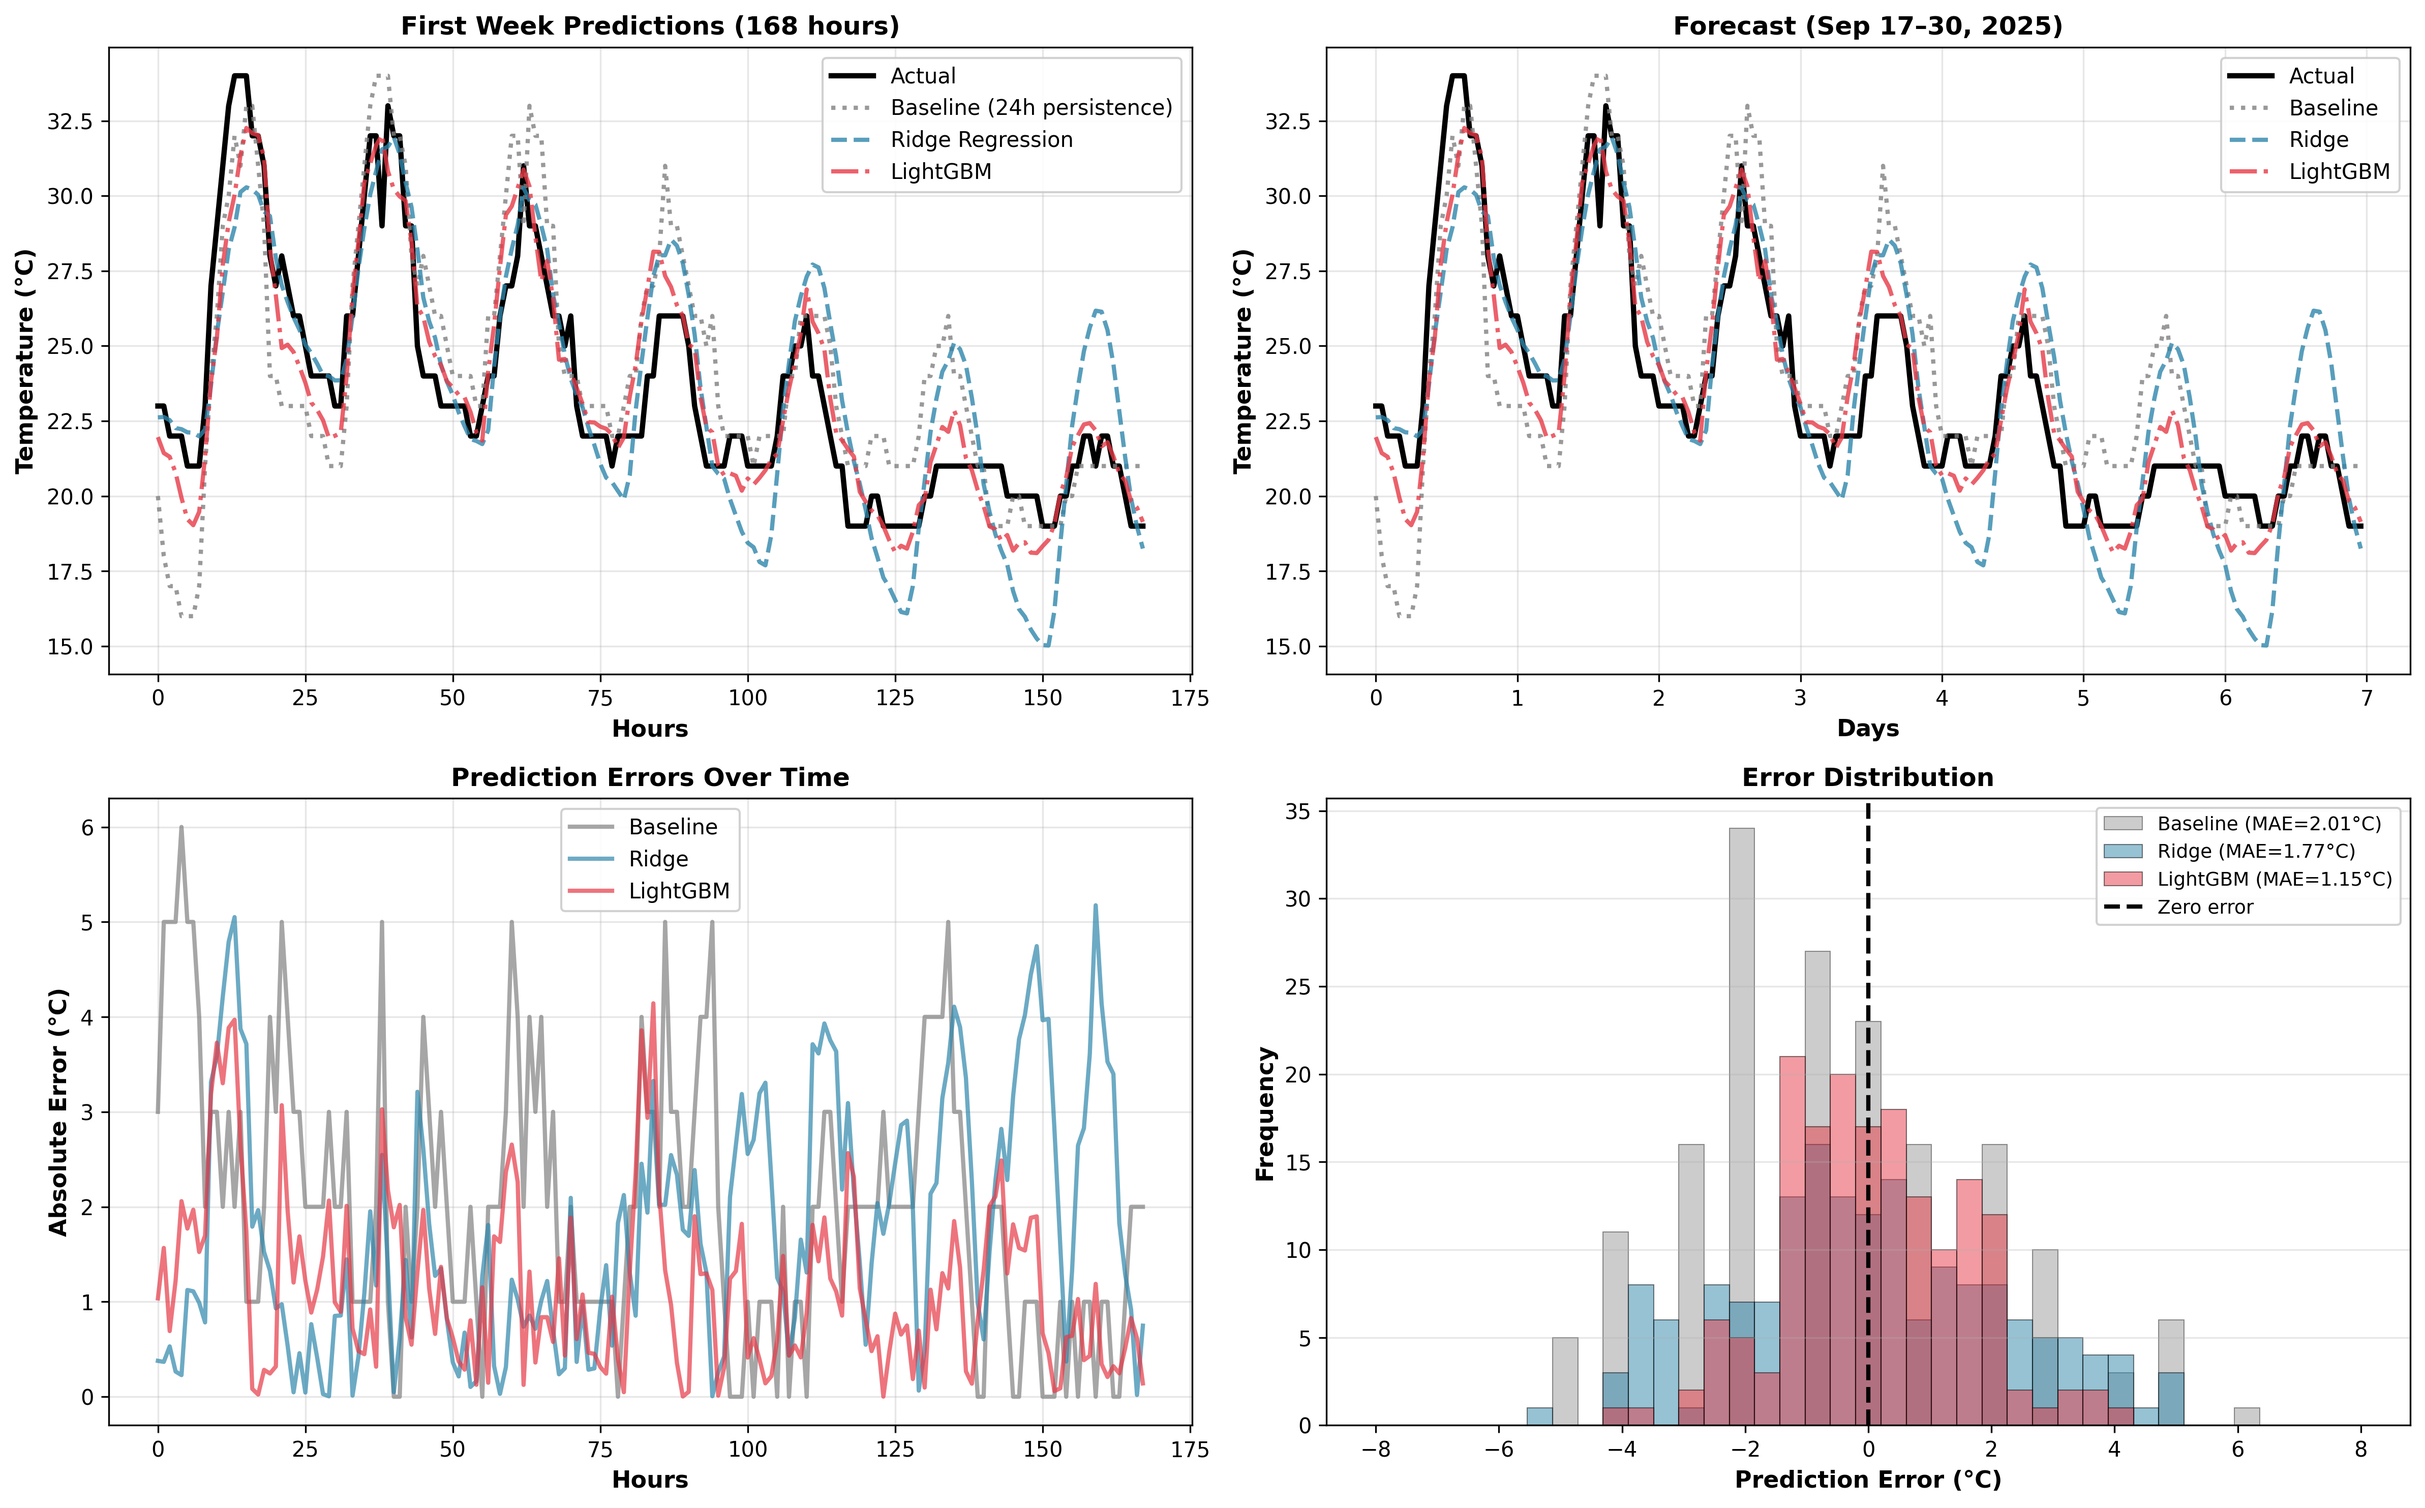
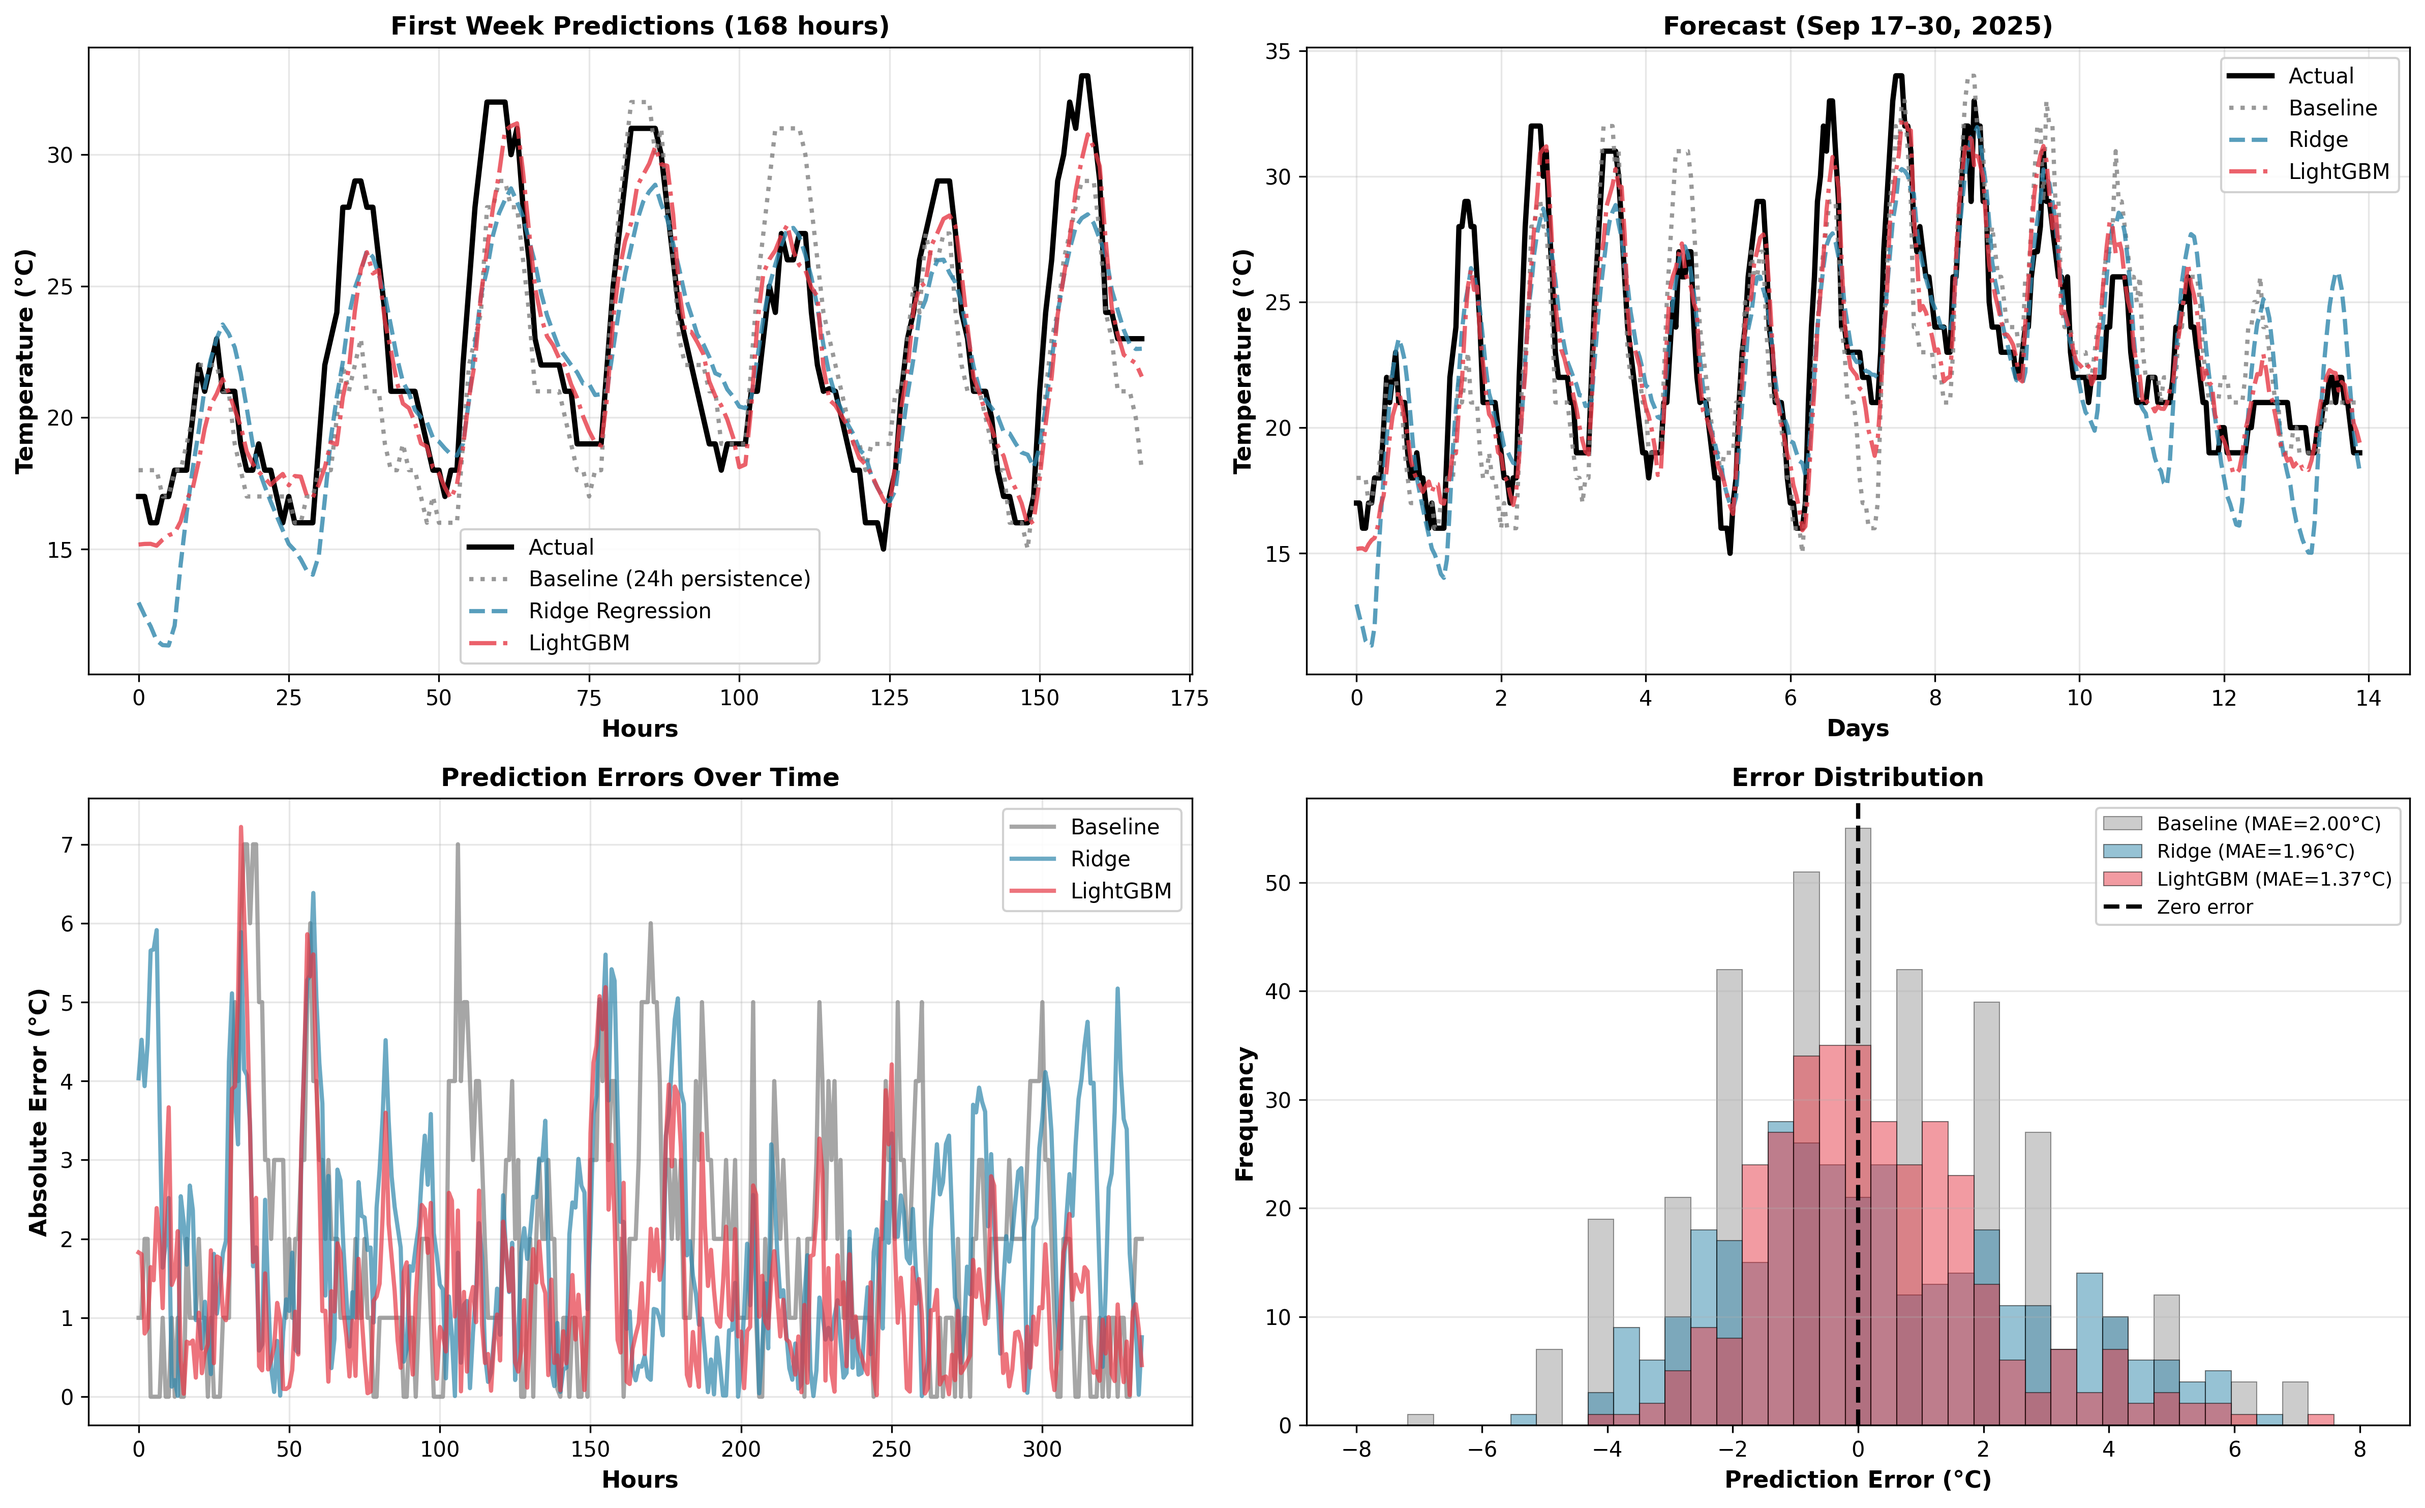
Fix lag features and add metrics-history.md

diff --git a/main.py b/main.py
@@ -43,7 +43,6 @@ CONFIG = {
     'timezone': 'America/New_York',
 }
 
-
 def _range_label(start_str, end_str):
     """Compact human label like "Sep 01–16, 2025" or cross-month/year if needed."""
     s = datetime.fromisoformat(start_str)
@@ -53,7 +52,6 @@ def _range_label(start_str, end_str):
     if s.year == e.year:
         return f"{s.strftime('%b %d')}–{e.strftime('%b %d, %Y')}"
     return f"{s.strftime('%b %d, %Y')}–{e.strftime('%b %d, %Y')}"
-
 
 def download_data():
     """Download complete weather data including test period"""
@@ -79,22 +77,37 @@ def convert_to_datetime(df):
     df.index = dt_index.tz_convert(CONFIG['timezone'])
     return df
 
-def create_features(df):
+def create_features(df, previous_data=None):
     """
-    Create features:
-    - Temperature lag features (backward-looking only)
-    - Rolling statistics (shifted by 1 to prevent using current value)
-    - One-hot encode hour of day (24 features)
-    - One-hot encode day of week (7 features)
+    Create features with support for cross-boundary lag features
+    
+    Args:
+        df: Current dataframe to create features for
+        previous_data: Previous data (train/val) to use for initial lag values
     """
     df = df.copy()
     
-    # Temperature lag features
-    df['temp_lag_24h'] = df['temp'].shift(24)    # Yesterday same hour
-    df['temp_lag_48h'] = df['temp'].shift(48)    # 2 days ago
-    df['temp_lag_168h'] = df['temp'].shift(168)  # 1 week ago
+    # If we have previous data, combine it to calculate lags across boundary
+    if previous_data is not None:
+        # Combine previous data with current data for lag calculations
+        combined = pd.concat([previous_data, df])
+        combined = combined.sort_index()
+        
+        # Calculate lags on combined data
+        combined['temp_lag_24h'] = combined['temp'].shift(24)
+        combined['temp_lag_48h'] = combined['temp'].shift(48)
+        combined['temp_lag_168h'] = combined['temp'].shift(168)
+        
+        # Extract just the current portion
+        current_mask = combined.index >= df.index.min()
+        df = combined[current_mask].copy()
+    else:
+        # For training data, calculate normally
+        df['temp_lag_24h'] = df['temp'].shift(24)
+        df['temp_lag_48h'] = df['temp'].shift(48)
+        df['temp_lag_168h'] = df['temp'].shift(168)
     
-    # Rolling statistics
+    # Rolling statistics (shifted by 1 to prevent using current value)
     df['temp_mean_24h'] = df['temp'].shift(1).rolling(24, min_periods=1).mean()
     df['temp_mean_168h'] = df['temp'].shift(1).rolling(168, min_periods=1).mean()
     df['temp_std_24h'] = df['temp'].shift(1).rolling(24, min_periods=1).std()
@@ -109,7 +122,6 @@ def create_features(df):
     
     return df
 
-
 def prepare_splits(all_data):
     """
     Split data into train, val, and test sets.
@@ -121,18 +133,13 @@ def prepare_splits(all_data):
     test_df = all_data[(all_data.index >= CONFIG['test_start']) &
                        (all_data.index <= CONFIG['test_end'])].copy()
     
-    # Create features for each split
-    print("  Creating features for training set...")
-    train_df = create_features(train_df)
-    
-    print("  Creating features for validation set...")
-    val_df = create_features(val_df)
-    
-    print("  Creating features for test set...")
-    test_df = create_features(test_df)
+    # Then create features for each split
+    print("  Creating features for each split...")
+    train_df = create_features(train_df)  # No previous data for training
+    val_df = create_features(val_df, previous_data=train_df)
+    test_df = create_features(test_df, previous_data=pd.concat([train_df, val_df]))
     
     return train_df, val_df, test_df
-
 
 def train_ridge(X_train, y_train, X_val, y_val):
     """Train Ridge with hyperparameter tuning"""
@@ -165,7 +172,6 @@ def train_ridge(X_train, y_train, X_val, y_val):
     
     return ridge_model
 
-
 def train_lightgbm(X_train, y_train, X_val, y_val):
     """Train LightGBM"""
     print("\nLightGBM:")
@@ -194,7 +200,6 @@ def train_lightgbm(X_train, y_train, X_val, y_val):
     print(f"  Validation MAE: {val_mae:.3f}°C")
     
     return lgb_model
-
 
 def create_visualizations(test_clean, ridge_preds, lgb_preds, baseline_preds):
     """Create comprehensive visualizations"""
@@ -273,7 +278,6 @@ def create_visualizations(test_clean, ridge_preds, lgb_preds, baseline_preds):
     print("  Saved: test_results.png")
     plt.close()
 
-
 def write_test_results_md(
     baseline_mae,
     baseline_rmse,
@@ -288,12 +292,13 @@ def write_test_results_md(
 ):
     """Write a concise markdown summary of test results."""
     lines = [
-        f"# Test Results ({_range_label(CONFIG['test_start'], CONFIG['test_end'])})",
+        f"# Test Results",
         "",
-        f"- Baseline — MAE: {baseline_mae:.2f}°C, RMSE: {baseline_rmse:.2f}°C, R²: {baseline_r2:.3f}",
-        f"- Ridge — MAE: {ridge_mae:.2f}°C, RMSE: {ridge_rmse:.2f}°C, R²: {ridge_r2:.3f}",
-        f"- LightGBM — MAE: {lgb_mae:.2f}°C, RMSE: {lgb_rmse:.2f}°C, R²: {lgb_r2:.3f}",
-        f"- Best model: {best_model}",
+        f"- **Period**: {_range_label(CONFIG['test_start'], CONFIG['test_end'])}",
+        f"- **Baseline** — MAE: {baseline_mae:.2f}°C, RMSE: {baseline_rmse:.2f}°C, R²: {baseline_r2:.3f}",
+        f"- **Ridge** — MAE: {ridge_mae:.2f}°C, RMSE: {ridge_rmse:.2f}°C, R²: {ridge_r2:.3f}",
+        f"- **LightGBM** — MAE: {lgb_mae:.2f}°C, RMSE: {lgb_rmse:.2f}°C, R²: {lgb_r2:.3f}",
+        f"- **Best model**: {best_model}",
         "",
         "![Predictions and Errors](test_results.png)",
     ]
@@ -302,14 +307,13 @@ def write_test_results_md(
 
 
 def main():
-    print("="*70)
+    print("=" * 70)
     print("RDU AIRPORT TEMPERATURE PREDICTION")
-    print("="*70)
+    print("=" * 70)
     
     print("\n1. Data Loading")
     print("-" * 70)
     all_data = download_data()
-    # all_data = prepare_data(all_data)
     all_data = convert_to_datetime(all_data)
     print(f"Full data range: {all_data.index.min()} to {all_data.index.max()}")
     print(f"Total samples: {len(all_data)}")
@@ -325,8 +329,7 @@ def main():
     continuous_features = ['temp_lag_24h', 'temp_lag_48h', 'temp_lag_168h',
                           'temp_mean_24h', 'temp_mean_168h', 'temp_std_24h']
     
-    categorical_features = ([f'hour_{h}' for h in range(24)] + 
-                           [f'dow_{d}' for d in range(7)])
+    categorical_features = [f'hour_{h}' for h in range(24)] + [f'dow_{d}' for d in range(7)]
     
     all_features = continuous_features + categorical_features
     
@@ -427,7 +430,7 @@ def main():
     print(f"  Generated {len(ridge_preds)} predictions for each model")
     
     print("\n8. Test Set Evaluation")
-    print("="*70)
+    print("=" * 70)
     
     # Baseline metrics
     baseline_mae = mean_absolute_error(y_test, baseline_preds)
@@ -500,7 +503,6 @@ def main():
     print("  Saved: test_results.md")
     
     return ridge_model, lgb_model
-
 
 if __name__ == "__main__":
     models = main()

diff --git a/metrics-history.md b/metrics-history.md
@@ -1,0 +1,21 @@
+## Run 2
+
+- **Period**: Sep 17–30, 2025
+- **Baseline** — MAE: 2.00°C, RMSE: 2.55°C, R²: 0.655
+- **Ridge** — MAE: 1.96°C, RMSE: 2.42°C, R²: 0.690  
+- **LightGBM** — MAE: 1.37°C, RMSE: 1.82°C, R²: 0.825
+- **Best model**: LightGBM
+
+> Fixed lag feature implementation to use training data for validation set lags, and training+validation data for test set lags. Now we can predict the full 14-day period instead of losing the first week to NaN values. However, these scores are suspiciously good for real forecasting since we're still using actual historical temperatures for all lag features rather than our own predictions.
+
+---
+
+## Run 1
+
+- **Period**: Sep 17–30, 2025  
+- **Baseline** — MAE: 2.01°C, RMSE: 2.45°C, R²: 0.575
+- **Ridge** — MAE: 1.77°C, RMSE: 2.19°C, R²: 0.661
+- **LightGBM** — MAE: 1.15°C, RMSE: 1.46°C, R²: 0.849
+- **Best model**: LightGBM
+
+> Only able to predict the second week (7 days) due to NaN issues from creating lag features separately on each split. Each split was dropping exactly 168 rows (7 days) from the start, which meant we were only predicting days 8-14 instead of the full 1-14 day period.

diff --git a/test_results.md b/test_results.md
@@ -1,8 +1,9 @@
-# Test Results (Sep 17–30, 2025)
+# Test Results
 
-- Baseline — MAE: 2.01°C, RMSE: 2.45°C, R²: 0.575
-- Ridge — MAE: 1.77°C, RMSE: 2.19°C, R²: 0.661
-- LightGBM — MAE: 1.15°C, RMSE: 1.46°C, R²: 0.849
-- Best model: LightGBM
+- **Period**: Sep 17–30, 2025
+- **Baseline** — MAE: 2.00°C, RMSE: 2.55°C, R²: 0.655
+- **Ridge** — MAE: 1.96°C, RMSE: 2.42°C, R²: 0.690
+- **LightGBM** — MAE: 1.37°C, RMSE: 1.82°C, R²: 0.825
+- **Best model**: LightGBM
 
 ![Predictions and Errors](test_results.png)
